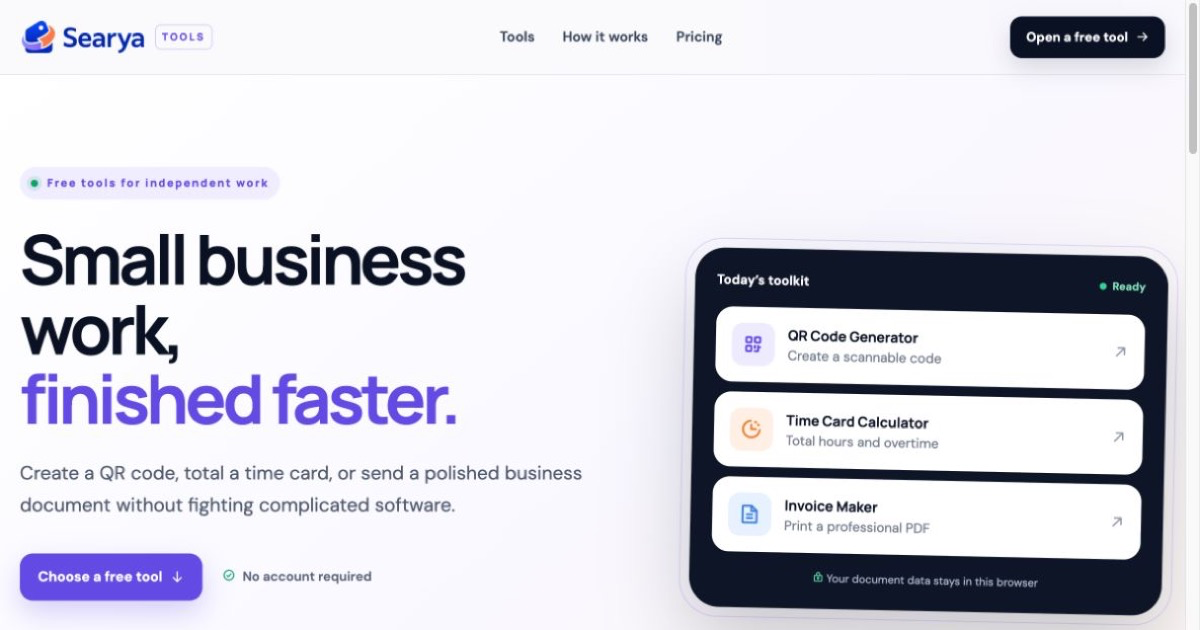
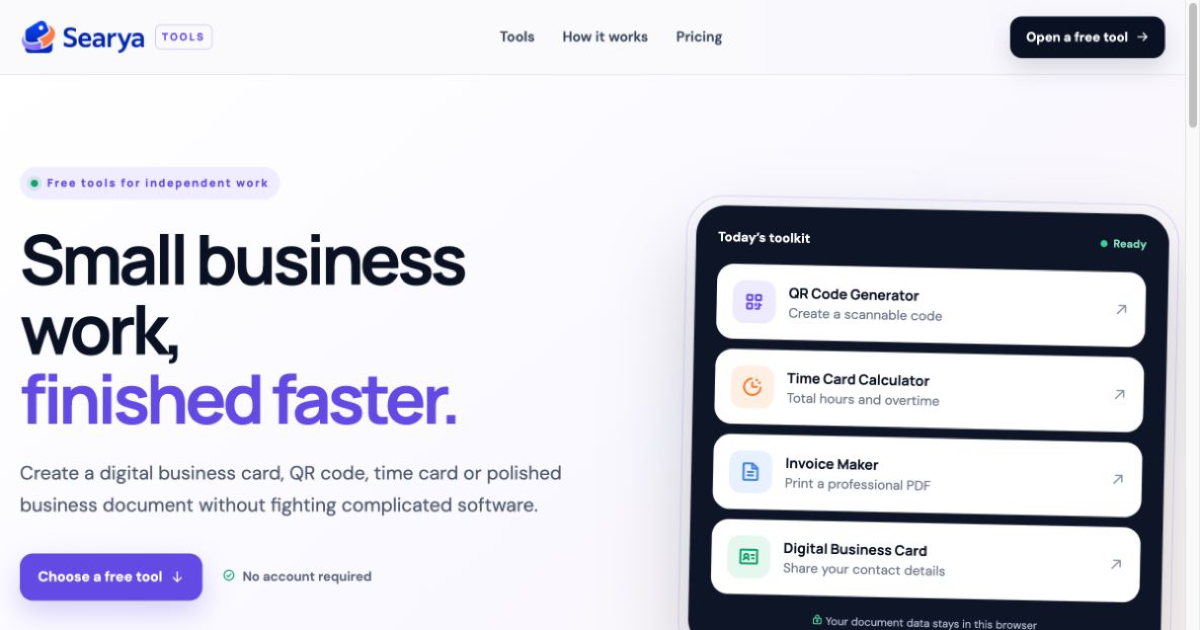
Add digital business card and unified plans

Changed region(s): [[0.555, 0.3016, 0.9867, 1.0], [0.0, 0.7238, 0.4933, 0.8143], [0.9867, 0.181, 1.0, 0.2413]]

diff --git a/src/styles/tools.css b/src/styles/tools.css
@@ -2,4 +2,19 @@
 *{box-sizing:border-box}html{scroll-behavior:smooth}body{margin:0;background:#fbfbfd;color:var(--ink);font-family:"DM Sans",sans-serif;line-height:1.5;overflow-x:hidden}button,input,textarea,select{font:inherit}button,a{touch-action:manipulation}a{color:inherit;text-decoration:none}.shell{width:min(1160px,calc(100% - 40px));margin:0 auto}.page-glow{position:fixed;width:500px;height:500px;border-radius:50%;filter:blur(100px);opacity:.16;pointer-events:none;z-index:-1}.glow-one{background:#a994ff;top:-240px;right:-120px}.glow-two{background:#ffc798;bottom:-320px;left:-220px}.site-header{position:sticky;top:0;z-index:30;background:rgba(251,251,253,.84);border-bottom:1px solid rgba(229,231,235,.8);backdrop-filter:blur(18px)}.header-inner{height:74px;display:flex;align-items:center;justify-content:space-between;gap:28px}.brand{display:flex;align-items:center;gap:9px;font-family:Manrope,sans-serif;font-size:10px;letter-spacing:.2em;font-weight:800}.brand img{width:126px;height:auto;display:block}.brand span{padding:4px 6px;border:1px solid #d8d3f7;color:var(--purple);border-radius:6px}.header-inner nav{display:flex;gap:28px;font-weight:600;font-size:14px;color:#475467}.header-inner nav a:hover{color:var(--purple)}.header-cta{display:flex;align-items:center;gap:8px;background:var(--ink);color:white;padding:11px 16px;border-radius:12px;font-size:13px;font-weight:700;box-shadow:0 10px 24px rgba(23,32,51,.14)}.hero{padding:92px 0 86px;border-bottom:1px solid var(--line);background:linear-gradient(140deg,#fff 0%,#faf9ff 54%,#fff9f5 100%)}.hero-grid{display:grid;grid-template-columns:1.05fr .85fr;align-items:center;gap:88px}.eyebrow,.section-kicker{font-family:Manrope,sans-serif;font-size:11px;font-weight:800;letter-spacing:.15em;color:var(--purple)}.eyebrow{display:inline-flex;align-items:center;gap:9px;padding:8px 11px;background:#f1efff;border-radius:999px}.eyebrow span{width:7px;height:7px;border-radius:50%;background:var(--green);box-shadow:0 0 0 4px rgba(30,170,120,.12)}h1,h2,h3,strong{font-family:Manrope,sans-serif}.hero h1{font-size:clamp(46px,5.7vw,76px);line-height:1.02;letter-spacing:-.055em;margin:24px 0}.hero h1 em{font-style:normal;color:var(--purple)}.hero-copy>p{font-size:19px;line-height:1.7;color:#5e687b;max-width:650px;margin:0}.hero-actions{display:flex;align-items:center;gap:20px;margin-top:32px}.hero-actions>span{font-size:13px;color:#667085;font-weight:600}.hero-actions>span i{color:var(--green);margin-right:4px}.button{appearance:none;border:0;border-radius:13px;padding:13px 18px;display:inline-flex;align-items:center;justify-content:center;gap:8px;font-weight:700;font-size:14px;cursor:pointer;transition:.2s ease}.button:hover{transform:translateY(-1px)}.button.primary{background:var(--purple);color:#fff;box-shadow:0 12px 28px rgba(114,89,232,.25)}.button.primary:hover{background:var(--purple-dark)}.button.dark{background:var(--ink);color:white}.button.secondary{background:white;color:var(--ink);border:1px solid var(--line)}.button.full{width:100%}.trust-row{display:flex;gap:38px;margin-top:46px}.trust-row div{display:flex;flex-direction:column}.trust-row strong{font-size:21px}.trust-row span{font-size:12px;color:#7a8395}.hero-visual{position:relative;background:#1d2537;border-radius:30px;padding:22px;box-shadow:0 34px 80px rgba(23,32,51,.22);transform:rotate(1.2deg)}.hero-visual:before{content:"";position:absolute;inset:-10px;border:1px solid rgba(114,89,232,.2);border-radius:38px;z-index:-1}.visual-top{display:flex;justify-content:space-between;color:#fff;margin-bottom:17px;font-size:13px;font-weight:700}.live-dot{font-size:11px;color:#8ee5c4}.live-dot:before{content:"";display:inline-block;width:7px;height:7px;border-radius:50%;background:#47d69f;margin-right:6px}.mini-tool{background:#fff;border-radius:17px;padding:16px;display:flex;align-items:center;gap:13px;margin-top:10px;transition:.2s}.mini-tool:hover{transform:translateX(4px)}.mini-tool>i:first-child{font-size:22px;width:43px;height:43px;border-radius:12px;display:grid;place-items:center}.mini-tool.purple>i:first-child{background:#f0edff;color:var(--purple)}.mini-tool.orange>i:first-child{background:#fff1e8;color:var(--orange)}.mini-tool.blue>i:first-child{background:#eaf3ff;color:var(--blue)}.mini-tool div{flex:1;display:flex;flex-direction:column}.mini-tool strong{font-size:14px}.mini-tool small{color:#7b8494}.mini-tool>i:last-child{color:#98a1b2}.visual-foot{text-align:center;color:#b7c0d0;font-size:11px;margin-top:17px}.visual-foot i{color:#6ee0b5}.tools-section{padding:100px 0}.section-heading{display:flex;align-items:end;justify-content:space-between;gap:30px;margin-bottom:38px}.section-heading h2{font-size:42px;letter-spacing:-.045em;margin:7px 0 0}.section-heading>p{max-width:380px;color:var(--muted);margin:0}.section-heading.centered{text-align:center;display:block}.section-heading.centered>p{margin:8px auto 0}.tool-cards{display:grid;grid-template-columns:repeat(3,1fr);gap:20px}.tool-card{position:relative;min-height:330px;padding:28px;border:1px solid var(--line);border-radius:var(--radius);background:#fff;display:flex;flex-direction:column;box-shadow:0 10px 30px rgba(23,32,51,.035);transition:.25s}.tool-card:hover{transform:translateY(-7px);border-color:#cfc7fb;box-shadow:var(--shadow)}.tool-card.featured{border-color:#d1c9fb;background:linear-gradient(180deg,#fff,#fbfaff)}.popular-pill{position:absolute;right:20px;top:-11px;background:var(--purple);color:#fff;padding:5px 9px;border-radius:999px;font-size:9px;font-weight:800;letter-spacing:.08em}.tool-icon{width:56px;height:56px;border-radius:16px;display:grid;place-items:center;font-size:27px}.tool-icon.purple{background:#f0edff;color:var(--purple)}.tool-icon.orange{background:#fff0e5;color:var(--orange)}.tool-icon.blue{background:#e9f3ff;color:var(--blue)}.free-pill{position:absolute;right:26px;top:29px;color:var(--green);background:#eaf9f3;border-radius:8px;padding:5px 8px;font-size:9px;font-weight:800}.tool-card h3{font-size:21px;margin:28px 0 9px}.tool-card p{color:var(--muted);margin:0;line-height:1.7}.tool-link{display:flex;align-items:center;gap:8px;margin-top:auto;font-size:13px;font-weight:800;color:var(--purple)}.tool-workspace{padding:52px 0 90px;background:linear-gradient(180deg,#f7f8fb,#fff)}.back-home{display:inline-flex;gap:8px;align-items:center;color:#667085;font-weight:700;font-size:13px;margin-bottom:26px}.workspace{display:none}.workspace.active{display:block}.workspace-heading{display:flex;align-items:center;gap:18px;margin-bottom:28px}.workspace-heading h1{font-size:clamp(31px,4vw,48px);letter-spacing:-.045em;margin:4px 0}.workspace-heading p{color:var(--muted);margin:0}.workspace-grid{display:grid;grid-template-columns:.85fr 1.15fr;gap:22px}.control-card,.result-card{background:#fff;border:1px solid var(--line);border-radius:20px;padding:24px;box-shadow:0 12px 35px rgba(23,32,51,.05)}label{display:flex;flex-direction:column;gap:7px;font-size:12px;color:#475467;font-weight:700;margin-bottom:17px}input,textarea,select{width:100%;border:1px solid #d9dce3;background:#fff;color:var(--ink);border-radius:11px;padding:12px 13px;outline:none;transition:.2s}textarea{resize:vertical}input:focus,textarea:focus,select:focus{border-color:var(--purple);box-shadow:0 0 0 3px rgba(114,89,232,.1)}.field-row{display:grid;grid-template-columns:1fr 1fr;gap:14px}.field-row.three{grid-template-columns:repeat(3,1fr)}input[type=color]{height:47px;padding:5px}.form-note{color:#7a8395;font-size:11px;display:flex;align-items:flex-start;gap:7px;margin:15px 0 0}.form-note i{color:var(--green);font-size:15px}.qr-result{min-height:415px;display:flex;align-items:center;justify-content:center;flex-direction:column;background:linear-gradient(145deg,#fff,#f7f6ff)}#qr-placeholder{text-align:center;color:#929aad}#qr-placeholder i{font-size:96px;color:#d8d5e8}#qr-image{width:min(290px,75%);aspect-ratio:1;border-radius:14px;background:#fff}.result-actions{display:flex;gap:10px;margin-top:20px}.time-layout{display:grid;grid-template-columns:1fr 290px;gap:20px}.table-card{overflow:hidden}.table-scroll{overflow:auto}.time-table{width:100%;border-collapse:collapse;min-width:650px}.time-table th{text-align:left;color:#7a8395;font-size:11px;text-transform:uppercase;letter-spacing:.07em;border-bottom:1px solid var(--line);padding:0 9px 12px}.time-table td{padding:11px 8px;border-bottom:1px solid #eff0f3;font-size:13px}.time-table td:first-child{font-weight:800}.time-table input{padding:9px 10px;min-width:105px}.time-table .day-total{font-weight:800;white-space:nowrap}.text-button{border:0;background:transparent;color:var(--purple);padding:12px 0 0;cursor:pointer;font-weight:800;font-size:12px}.pay-settings h3{margin:0 0 20px}.summary-grid{display:grid;grid-template-columns:repeat(4,1fr);gap:14px;margin-top:20px}.summary-grid>div{border:1px solid var(--line);background:#fff;border-radius:17px;padding:20px;display:flex;flex-direction:column;gap:6px}.summary-grid span{font-size:11px;color:#7a8395;font-weight:700}.summary-grid strong{font-size:22px}.summary-grid .pay-total{background:var(--ink);border-color:var(--ink);color:#fff}.summary-grid .pay-total span{color:#bdc5d3}.workspace-actions{display:flex;gap:10px;margin-top:18px}.document-layout{display:grid;grid-template-columns:1fr 1fr;gap:22px;align-items:start}.document-form{padding-bottom:12px}.line-items{margin:4px 0 18px}.line-head,.line-item{display:grid;grid-template-columns:1fr 65px 100px 32px;gap:8px;align-items:center}.line-head{font-size:10px;text-transform:uppercase;color:#7a8395;font-weight:800;padding-bottom:7px}.line-item{margin-bottom:8px}.line-item input{padding:10px}.remove-line{border:0;background:#fff1f1;color:#d44949;width:30px;height:38px;border-radius:9px;cursor:pointer}.document-preview-wrap{position:sticky;top:96px}.document-preview{background:#fff;border:1px solid var(--line);box-shadow:0 20px 60px rgba(23,32,51,.09);min-height:700px;margin-bottom:14px;padding:48px;color:#222}.doc-head{display:flex;justify-content:space-between;gap:25px;border-bottom:2px solid #20283a;padding-bottom:24px}.doc-head h2{font-size:32px;text-transform:uppercase;letter-spacing:.08em;margin:0}.doc-head p,.doc-parties p,.doc-notes p{margin:4px 0;font-size:12px;color:#596273}.doc-number{text-align:right}.doc-parties{display:grid;grid-template-columns:1fr 1fr;gap:30px;padding:28px 0}.doc-parties strong,.doc-notes strong{font-size:11px;text-transform:uppercase;color:#7a8395;letter-spacing:.08em}.doc-table{width:100%;border-collapse:collapse}.doc-table th{font-size:10px;text-transform:uppercase;text-align:left;background:#f1f2f5;padding:10px}.doc-table td{font-size:12px;padding:12px 10px;border-bottom:1px solid #e8e9ed}.doc-table th:nth-child(n+2),.doc-table td:nth-child(n+2){text-align:right}.doc-totals{width:52%;margin:24px 0 24px auto}.doc-total-row{display:flex;justify-content:space-between;padding:7px 0;font-size:12px}.doc-total-row.grand{font-size:17px;font-weight:800;border-top:2px solid #20283a;margin-top:5px;padding-top:12px}.doc-notes{border-top:1px solid #e7e8ec;padding-top:20px}.how-section{padding:100px 0;background:#f5f5f8}.steps{display:grid;grid-template-columns:repeat(3,1fr);gap:20px;margin-top:42px}.steps>div{position:relative;background:#fff;padding:28px;border-radius:20px;border:1px solid var(--line)}.steps>div>span{position:absolute;right:20px;top:18px;color:#d4d6dc;font-family:Manrope;font-weight:800}.steps i{font-size:25px;color:var(--purple)}.steps h3{margin:19px 0 7px}.steps p{color:var(--muted);font-size:14px;margin:0}.pricing-section{padding:78px 0}.pricing-box{background:linear-gradient(135deg,#5f48d5,#8068f4);border-radius:30px;padding:48px 55px;color:#fff;display:flex;justify-content:space-between;align-items:center;gap:50px;box-shadow:0 30px 70px rgba(95,72,213,.25)}.pricing-box h2{font-size:39px;letter-spacing:-.04em;margin:8px 0}.pricing-box p{color:#e5e0ff;max-width:660px;margin:0}.section-kicker.light{color:#cfc6ff}.price{display:flex;flex-direction:column;align-items:flex-end;min-width:210px}.price strong{font-size:54px;line-height:1}.price span{font-size:12px;color:#dcd5ff;margin-bottom:16px}.light-button{background:#fff;color:#4c38b5}.light-button:hover{background:#f5f2ff}footer{border-top:1px solid var(--line);padding:32px 0;background:#fff}.footer-inner{display:flex;align-items:center;gap:30px}.footer-brand img{width:112px}.footer-inner p{font-size:12px;color:#7a8395;flex:1}.footer-inner>div{display:flex;gap:18px;font-size:12px;font-weight:700;color:#667085}#toast{position:fixed;z-index:100;bottom:22px;left:50%;transform:translate(-50%,120px);background:var(--ink);color:#fff;padding:12px 18px;border-radius:12px;font-size:13px;font-weight:700;box-shadow:0 16px 40px rgba(0,0,0,.2);transition:.25s;opacity:0}#toast.show{transform:translate(-50%,0);opacity:1}
 @media(max-width:900px){.header-inner nav{display:none}.hero{padding:65px 0}.hero-grid{grid-template-columns:1fr;gap:45px}.hero-copy{text-align:center}.hero-copy>p{margin:auto}.hero-actions,.trust-row{justify-content:center}.hero-visual{max-width:540px;margin:auto;width:100%}.tool-cards,.steps{grid-template-columns:1fr}.tool-card{min-height:270px}.workspace-grid,.time-layout,.document-layout{grid-template-columns:1fr}.document-preview-wrap{position:static}.summary-grid{grid-template-columns:1fr 1fr}.pricing-box{flex-direction:column;text-align:center}.price{align-items:center}.section-heading{align-items:start}.section-heading h2{font-size:35px}}
 @media(max-width:620px){.shell{width:min(100% - 26px,1160px)}.header-inner{height:66px}.brand img{width:105px}.header-cta{height:40px;padding:0 12px;font-size:12px}.header-cta span{display:none}.header-cta:before{content:"Tools"}.header-cta i{font-size:13px}.hero{padding:48px 0}.hero h1{font-size:43px}.hero-copy>p{font-size:16px}.hero-actions{flex-direction:column}.trust-row{gap:22px}.hero-visual{padding:16px}.tools-section,.how-section{padding:68px 0}.section-heading{display:block}.section-heading>p{margin-top:10px}.section-heading h2{font-size:32px}.workspace-heading{align-items:flex-start}.workspace-heading .tool-icon{flex:none}.workspace-heading h1{font-size:31px}.control-card,.result-card{padding:17px}.field-row,.field-row.three{grid-template-columns:1fr;gap:0}.summary-grid{grid-template-columns:1fr 1fr}.summary-grid>div{padding:15px}.summary-grid strong{font-size:18px}.result-actions,.workspace-actions{flex-direction:column;width:100%}.result-actions .button,.workspace-actions .button{width:100%}.document-preview{padding:25px 18px;min-height:580px}.doc-head{flex-direction:column}.doc-number{text-align:left}.doc-parties{grid-template-columns:1fr}.doc-totals{width:100%}.line-head,.line-item{grid-template-columns:1fr 54px 78px 30px}.pricing-box{padding:36px 24px}.pricing-box h2{font-size:30px}.footer-inner{flex-wrap:wrap}.footer-inner p{order:3;flex-basis:100%;margin:0}.footer-inner>div{margin-left:auto}}
+
+.mini-tool.green>i:first-child,.tool-icon.green{background:#e9f8f2;color:var(--green)}
+.tool-cards{grid-template-columns:repeat(4,1fr)}
+.card-builder-layout{display:grid;grid-template-columns:.95fr 1.05fr;gap:24px;align-items:start}
+.card-preview-column{display:flex;flex-direction:column;gap:16px}
+.business-card-preview{position:relative;overflow:hidden;min-height:350px;border-radius:27px;padding:38px;color:#fff;background:linear-gradient(145deg,#172033,#252f47);box-shadow:0 28px 65px rgba(23,32,51,.2)}
+.business-card-preview:before{content:"";position:absolute;width:240px;height:240px;border-radius:50%;right:-85px;top:-90px;background:var(--card-accent,#7259e8);opacity:.75;filter:blur(3px)}
+.business-card-preview:after{content:"";position:absolute;width:160px;height:160px;border:1px solid rgba(255,255,255,.15);border-radius:50%;right:10px;top:-30px}
+.card-monogram{position:relative;z-index:1;width:72px;height:72px;border-radius:21px;display:grid;place-items:center;background:rgba(255,255,255,.13);border:1px solid rgba(255,255,255,.18);font:800 24px Manrope,sans-serif;margin-bottom:42px}
+.card-main{position:relative;z-index:1}.card-main h2{font-size:34px;letter-spacing:-.04em;margin:0}.card-main>span{display:block;color:#d9deea;margin:4px 0 15px}.card-main p{max-width:480px;color:#bcc5d6;font-size:13px;margin:0 0 22px}.card-contact-list{position:relative;z-index:1;display:flex;flex-wrap:wrap;gap:9px}.card-contact-list a,.card-contact-list span{display:inline-flex;align-items:center;gap:6px;padding:8px 10px;border-radius:9px;background:rgba(255,255,255,.09);font-size:11px;color:#fff}
+.card-qr-box{display:flex;align-items:center;justify-content:space-between;gap:20px;border:1px solid var(--line);background:#fff;border-radius:18px;padding:18px 20px}.card-qr-box>div{display:flex;flex-direction:column}.card-qr-box span{color:var(--muted);font-size:12px}.card-qr-box img{width:92px;height:92px;border-radius:8px;background:#fff}.card-preview-column .workspace-actions{margin-top:0}.card-preview-column .workspace-actions .button{flex:1}
+.pricing-section{background:#f7f8fb;padding:96px 0}.pricing-grid{display:grid;grid-template-columns:repeat(3,1fr);gap:20px;align-items:stretch}.plan-card{position:relative;background:#fff;border:1px solid var(--line);border-radius:24px;padding:30px;display:flex;flex-direction:column;box-shadow:0 12px 35px rgba(23,32,51,.04)}.plan-card.plan-featured{border:2px solid var(--purple);box-shadow:0 22px 55px rgba(114,89,232,.14);transform:translateY(-8px)}.plan-name{font:800 11px Manrope,sans-serif;letter-spacing:.13em;color:var(--purple)}.plan-card h3{font-size:36px;margin:14px 0 5px}.plan-card h3 small{font:600 13px "DM Sans",sans-serif;color:var(--muted)}.plan-card>p{color:var(--muted);min-height:48px}.plan-card ul{list-style:none;padding:0;margin:17px 0 26px;display:flex;flex-direction:column;gap:12px;flex:1}.plan-card li{position:relative;padding-left:24px;font-size:13px;color:#475467}.plan-card li:before{content:"✓";position:absolute;left:0;color:var(--green);font-weight:900}.plan-card button:disabled{opacity:.72;cursor:not-allowed;transform:none}.plan-badge{position:absolute;top:-13px;right:22px;background:var(--purple);color:#fff;border-radius:999px;padding:6px 10px;font-size:9px;font-weight:800;letter-spacing:.06em}.annual-note{text-align:center;color:#7a8395;margin-top:10px}
+@media(max-width:1050px){.tool-cards{grid-template-columns:repeat(2,1fr)}}
+@media(max-width:900px){.card-builder-layout,.pricing-grid{grid-template-columns:1fr}.plan-card.plan-featured{transform:none}}
+@media(max-width:620px){.tool-cards{grid-template-columns:1fr}.business-card-preview{padding:27px 22px;min-height:330px}.card-main h2{font-size:28px}.card-qr-box{align-items:flex-start}.pricing-section{padding:68px 0}}
 @media print{body *{visibility:hidden!important}.document-preview-wrap,.document-preview-wrap *{visibility:visible!important}.document-preview-wrap{position:absolute!important;inset:0!important}.document-preview{border:0!important;box-shadow:none!important;margin:0!important;min-height:0!important}.document-preview-wrap>.button{display:none!important}}

diff --git a/index.html b/index.html
@@ -3,26 +3,26 @@
 <head>
   <meta charset="utf-8">
   <meta name="viewport" content="width=device-width,initial-scale=1">
-  <title>Searya Tools — Free QR, Time Card & Invoice Tools</title>
-  <meta name="description" content="Create QR codes, calculate work hours, and make professional invoices, quotes and receipts. Fast, private and free to use.">
+  <title>Searya Tools — Digital Business Cards, QR & Invoice Tools</title>
+  <meta name="description" content="Create a digital business card, QR code, time card, invoice, quote or receipt. Upgrade once to unlock the complete Searya workspace.">
   <meta name="robots" content="index, follow, max-image-preview:large">
   <link rel="canonical" href="https://searya.com/">
   <meta property="og:type" content="website">
   <meta property="og:site_name" content="Searya Tools">
   <meta property="og:locale" content="en_US">
   <meta property="og:url" content="https://searya.com/">
-  <meta property="og:title" content="Searya Tools — Free QR, Time Card & Invoice Tools">
-  <meta property="og:description" content="Practical business tools that work instantly. No complicated setup.">
-  <meta property="og:image" content="https://searya.com/public/searya-tools-preview.png?v=20260816-1">
-  <meta property="og:image:secure_url" content="https://searya.com/public/searya-tools-preview.png?v=20260816-1">
+  <meta property="og:title" content="Searya Tools — One Workspace for Small Business">
+  <meta property="og:description" content="Create digital business cards, QR codes, time cards, invoices and more with one Searya membership.">
+  <meta property="og:image" content="https://searya.com/public/searya-tools-preview.png?v=20260816-2">
+  <meta property="og:image:secure_url" content="https://searya.com/public/searya-tools-preview.png?v=20260816-2">
   <meta property="og:image:type" content="image/png">
   <meta property="og:image:width" content="1200">
   <meta property="og:image:height" content="630">
   <meta property="og:image:alt" content="Searya free business tools">
   <meta name="twitter:card" content="summary_large_image">
-  <meta name="twitter:title" content="Searya Tools — Free QR, Time Card & Invoice Tools">
-  <meta name="twitter:description" content="Practical business tools that work instantly. No complicated setup.">
-  <meta name="twitter:image" content="https://searya.com/public/searya-tools-preview.png?v=20260816-1">
+  <meta name="twitter:title" content="Searya Tools — One Workspace for Small Business">
+  <meta name="twitter:description" content="Create digital business cards, QR codes, time cards, invoices and more with one Searya membership.">
+  <meta name="twitter:image" content="https://searya.com/public/searya-tools-preview.png?v=20260816-2">
   <link rel="icon" href="/favicon.ico?v=20260816-1" sizes="any">
   <link rel="icon" type="image/png" sizes="32x32" href="/public/favicon-32.png?v=20260816-1">
   <link rel="apple-touch-icon" href="/public/apple-touch-icon.png?v=20260816-1">
@@ -31,7 +31,7 @@
   <link href="https://fonts.googleapis.com/css2?family=DM+Sans:wght@400;500;600;700&family=Manrope:wght@600;700;800&display=swap" rel="stylesheet">
   <link rel="stylesheet" href="/public/vendor/phosphor/regular/style.css?v=2.1.2">
   <link rel="stylesheet" href="/public/vendor/phosphor/bold/style.css?v=2.1.2">
-  <link rel="stylesheet" href="/src/styles/tools.css?v=20260816-1">
+  <link rel="stylesheet" href="/src/styles/tools.css?v=20260816-2">
   <script id="searya-structured-data" type="application/ld+json">{"@context":"https://schema.org","@graph":[{"@type":"Organization","name":"Searya","url":"https://searya.com/","logo":"https://searya.com/public/searya-logo.png"},{"@type":"WebSite","name":"Searya Tools","url":"https://searya.com/"},{"@type":"SoftwareApplication","name":"Searya Business Tools","applicationCategory":"BusinessApplication","operatingSystem":"Web","offers":{"@type":"Offer","price":"0","priceCurrency":"USD"}}]}</script>
 </head>
 <body>
@@ -50,15 +50,16 @@
         <div class="hero-copy">
           <div class="eyebrow"><span></span> Free tools for independent work</div>
           <h1>Small business work,<br><em>finished faster.</em></h1>
-          <p>Create a QR code, total a time card, or send a polished business document without fighting complicated software.</p>
+          <p>Create a digital business card, QR code, time card or polished business document without fighting complicated software.</p>
           <div class="hero-actions"><a class="button primary" href="/#tools">Choose a free tool <i class="ph-bold ph-arrow-down"></i></a><span><i class="ph-bold ph-check-circle"></i> No account required</span></div>
-          <div class="trust-row"><div><strong>3</strong><span>working tools</span></div><div><strong>0</strong><span>setup steps</span></div><div><strong>Free</strong><span>during launch</span></div></div>
+          <div class="trust-row"><div><strong>4</strong><span>working tools</span></div><div><strong>1 account</strong><span>for every tool</span></div><div><strong>Free</strong><span>starter access</span></div></div>
         </div>
         <div class="hero-visual" aria-label="Searya tool previews">
           <div class="visual-top"><span>Today’s toolkit</span><span class="live-dot">Ready</span></div>
           <a href="/qr-code-generator" class="mini-tool purple"><i class="ph-bold ph-qr-code"></i><div><strong>QR Code Generator</strong><small>Create a scannable code</small></div><i class="ph-bold ph-arrow-up-right"></i></a>
           <a href="/time-card-calculator" class="mini-tool orange"><i class="ph-bold ph-clock-countdown"></i><div><strong>Time Card Calculator</strong><small>Total hours and overtime</small></div><i class="ph-bold ph-arrow-up-right"></i></a>
           <a href="/invoice-generator" class="mini-tool blue"><i class="ph-bold ph-file-text"></i><div><strong>Invoice Maker</strong><small>Print a professional PDF</small></div><i class="ph-bold ph-arrow-up-right"></i></a>
+          <a href="/digital-business-card" class="mini-tool green"><i class="ph-bold ph-identification-card"></i><div><strong>Digital Business Card</strong><small>Share your contact details</small></div><i class="ph-bold ph-arrow-up-right"></i></a>
           <div class="visual-foot"><i class="ph-bold ph-lock-key"></i> Your document data stays in this browser</div>
         </div>
       </div>
@@ -71,6 +72,7 @@
           <a class="tool-card" href="/qr-code-generator"><span class="tool-icon purple"><i class="ph-bold ph-qr-code"></i></span><span class="free-pill">FREE</span><h3>QR Code Generator</h3><p>Turn a URL, message, email or phone number into a downloadable QR code.</p><span class="tool-link">Create a QR code <i class="ph-bold ph-arrow-right"></i></span></a>
           <a class="tool-card featured" href="/time-card-calculator"><span class="popular-pill">MOST USEFUL</span><span class="tool-icon orange"><i class="ph-bold ph-clock-countdown"></i></span><span class="free-pill">FREE</span><h3>Time Card Calculator</h3><p>Calculate daily hours, breaks, weekly pay and overtime without a spreadsheet.</p><span class="tool-link">Calculate work hours <i class="ph-bold ph-arrow-right"></i></span></a>
           <a class="tool-card" href="/invoice-generator"><span class="tool-icon blue"><i class="ph-bold ph-file-text"></i></span><span class="free-pill">FREE</span><h3>Business Document Maker</h3><p>Create invoices, quotes and receipts with live totals and a printable layout.</p><span class="tool-link">Create a document <i class="ph-bold ph-arrow-right"></i></span></a>
+          <a class="tool-card featured" href="/digital-business-card"><span class="popular-pill">NEW</span><span class="tool-icon green"><i class="ph-bold ph-identification-card"></i></span><span class="free-pill">FREE</span><h3>Digital Business Card</h3><p>Create a polished contact card, downloadable vCard and scannable contact QR code.</p><span class="tool-link">Create your card <i class="ph-bold ph-arrow-right"></i></span></a>
         </div>
       </div>
     </section>
@@ -117,16 +119,36 @@
             <div class="document-preview-wrap"><div id="document-preview" class="document-preview"></div><button class="button primary full" id="print-document" type="button"><i class="ph-bold ph-printer"></i> Print or save as PDF</button></div>
           </div>
         </article>
+
+        <article class="workspace" data-tool-panel="card">
+          <header class="workspace-heading"><span class="tool-icon green"><i class="ph-bold ph-identification-card"></i></span><div><span class="section-kicker">FREE ONLINE TOOL</span><h1>Digital Business Card Maker</h1><p>Create a professional contact card, vCard file and QR code in one place.</p></div></header>
+          <div class="card-builder-layout">
+            <form id="business-card-form" class="control-card card-form">
+              <div class="field-row"><label>Full name<input id="card-name" maxlength="70" placeholder="Alex Rivera" value="Alex Rivera"></label><label>Job title<input id="card-role" maxlength="70" placeholder="Independent Consultant" value="Independent Consultant"></label></div>
+              <div class="field-row"><label>Company<input id="card-company" maxlength="80" placeholder="Rivera Studio" value="Rivera Studio"></label><label>Accent color<input id="card-color" type="color" value="#7259e8"></label></div>
+              <div class="field-row"><label>Email<input id="card-email" type="email" maxlength="100" placeholder="alex@example.com"></label><label>Phone<input id="card-phone" type="tel" maxlength="30" placeholder="+1 555 123 4567"></label></div>
+              <label>Website<input id="card-website" type="url" maxlength="180" placeholder="https://yourwebsite.com"></label>
+              <label>LinkedIn or social link<input id="card-social" type="url" maxlength="180" placeholder="https://linkedin.com/in/yourname"></label>
+              <label>Short introduction<textarea id="card-bio" maxlength="220" rows="3" placeholder="Tell people what you do and how you help.">Helping small businesses turn ideas into clear, practical digital experiences.</textarea></label>
+              <p class="form-note"><i class="ph-bold ph-shield-check"></i> Your contact details stay in this browser. The QR code stores the contact directly.</p>
+            </form>
+            <div class="card-preview-column">
+              <div id="business-card-preview" class="business-card-preview"></div>
+              <div class="card-qr-box"><div><strong>Contact QR code</strong><span>Scanning adds your details to a phone.</span></div><img id="card-qr-image" alt="Digital business card QR code"></div>
+              <div class="workspace-actions"><button class="button primary" id="download-vcard" type="button"><i class="ph-bold ph-download-simple"></i> Download vCard</button><button class="button secondary" id="download-card-qr" type="button"><i class="ph-bold ph-qr-code"></i> Download QR</button></div>
+            </div>
+          </div>
+        </article>
       </div>
     </section>
 
     <section class="how-section" id="how-it-works"><div class="shell"><div class="section-heading centered"><div><span class="section-kicker">BUILT FOR SPEED</span><h2>Useful before you sign up.</h2></div><p>We believe a business tool should prove its value first.</p></div><div class="steps"><div><span>01</span><i class="ph-bold ph-cursor-click"></i><h3>Open a tool</h3><p>Choose the job you need to finish. No onboarding maze.</p></div><div><span>02</span><i class="ph-bold ph-sliders-horizontal"></i><h3>Add your details</h3><p>Your inputs stay in the browser unless the tool must generate a file.</p></div><div><span>03</span><i class="ph-bold ph-download-simple"></i><h3>Use the result</h3><p>Download, print or share the finished output immediately.</p></div></div></div></section>
 
-    <section class="pricing-section" id="pricing"><div class="shell"><div class="pricing-box"><div><span class="section-kicker light">LAUNCH ACCESS</span><h2>All core tools are free today.</h2><p>Use the generators without an account. Pro will add saved clients, branded templates, document history and team features later.</p></div><div class="price"><strong>$0</strong><span>during launch</span><a class="button light-button" href="/#tools">Start using the tools</a></div></div></div></section>
+    <section class="pricing-section" id="pricing"><div class="shell"><div class="section-heading centered"><div><span class="section-kicker">ONE SEARYA MEMBERSHIP</span><h2>One plan unlocks every tool.</h2></div><p>No separate QR, invoice or digital-card payments. Upgrade once and use the complete Searya workspace.</p></div><div class="pricing-grid"><article class="plan-card"><span class="plan-name">FREE</span><h3>$0</h3><p>Try the core tools before creating an account.</p><ul><li>All calculators and generators</li><li>One local digital business card</li><li>Searya-branded exports</li><li>No cloud history</li></ul><a class="button secondary full" href="/#tools">Use free tools</a></article><article class="plan-card plan-featured"><span class="plan-badge">BEST FOR FREELANCERS</span><span class="plan-name">PRO</span><h3>$7.99 <small>/ month</small></h3><p>Everything an independent professional needs.</p><ul><li>Every Searya tool included</li><li>Unlimited clients and documents</li><li>Custom branding and templates</li><li>Saved history and payment tracking</li><li>Digital-card and QR analytics</li></ul><button class="button primary full" type="button" disabled>Coming soon</button><small class="annual-note">or $69 billed yearly</small></article><article class="plan-card"><span class="plan-name">BUSINESS</span><h3>$14.99 <small>/ month</small></h3><p>Shared tools and branding for a small team.</p><ul><li>Everything in Pro</li><li>Up to 5 team members</li><li>50 digital business cards</li><li>Shared brand controls</li><li>Custom domain and exports</li></ul><button class="button dark full" type="button" disabled>Coming soon</button><small class="annual-note">or $129 billed yearly</small></article></div></div></section>
   </main>
 
   <footer><div class="shell footer-inner"><a class="brand footer-brand" href="/"><img src="/src/assets/searya-logo.png" alt="Searya" width="1250" height="359"><span>TOOLS</span></a><p>Fast, practical business tools for independent work.</p><div><a href="/legal/privacy.html">Privacy</a><a href="/legal/terms.html">Terms</a><a href="mailto:basakatali71@gmail.com">Feedback</a></div></div></footer>
   <div id="toast" role="status" aria-live="polite"></div>
-  <script type="module" src="/src/tools.js?v=20260816-1"></script>
+  <script type="module" src="/src/tools.js?v=20260816-2"></script>
 </body>
 </html>

diff --git a/src/tools.js b/src/tools.js
@@ -6,10 +6,16 @@ const TOOL_PATHS = {
   '/work-hours-calculator': 'time',
   '/invoice-generator': 'document',
   '/quote-generator': 'document',
-  '/receipt-maker': 'document'
+  '/receipt-maker': 'document',
+  '/digital-business-card': 'card',
+  '/digital-business-card-maker': 'card',
+  '/qr-business-card': 'card',
+  '/virtual-business-card': 'card'
 };
 const DAYS = ['Monday','Tuesday','Wednesday','Thursday','Friday','Saturday','Sunday'];
 let qrObjectUrl = '';
+let cardQrObjectUrl = '';
+let cardQrTimer = null;
 let lastTimeResult = null;
 let toastTimer = null;
 
@@ -199,6 +205,86 @@ function initializeDocument() {
   updateDocumentPreview();
 }
 
+function businessCardValues() {
+  return {
+    name: $('#card-name').value.trim(), role: $('#card-role').value.trim(), company: $('#card-company').value.trim(),
+    email: $('#card-email').value.trim(), phone: $('#card-phone').value.trim(), website: $('#card-website').value.trim(),
+    social: $('#card-social').value.trim(), bio: $('#card-bio').value.trim(), color: $('#card-color').value
+  };
+}
+
+function vcardEscape(value='') {
+  return String(value).replaceAll('\\','\\\\').replaceAll('\n','\\n').replaceAll(';','\\;').replaceAll(',','\\,');
+}
+
+function makeVcard(card=businessCardValues()) {
+  const lines=['BEGIN:VCARD','VERSION:3.0',`FN:${vcardEscape(card.name||'My business card')}`];
+  if (card.role || card.company) lines.push(`TITLE:${vcardEscape(card.role)}`,`ORG:${vcardEscape(card.company)}`);
+  if (card.email) lines.push(`EMAIL;TYPE=INTERNET:${vcardEscape(card.email)}`);
+  if (card.phone) lines.push(`TEL;TYPE=CELL:${vcardEscape(card.phone)}`);
+  if (card.website) lines.push(`URL:${vcardEscape(card.website)}`);
+  if (card.social) lines.push(`X-SOCIALPROFILE:${vcardEscape(card.social)}`);
+  if (card.bio) lines.push(`NOTE:${vcardEscape(card.bio)}`);
+  lines.push('END:VCARD');
+  return lines.filter(line => !line.endsWith(':')).join('\r\n');
+}
+
+async function refreshCardQr() {
+  const image=$('#card-qr-image');
+  if (!image) return;
+  try {
+    const response=await fetch(`/api/tools/qr?text=${encodeURIComponent(makeVcard())}&dark=%23172033&light=%23ffffff`);
+    if (!response.ok) throw new Error('QR code could not be generated.');
+    const blob=await response.blob();
+    if (cardQrObjectUrl) URL.revokeObjectURL(cardQrObjectUrl);
+    cardQrObjectUrl=URL.createObjectURL(blob); image.src=cardQrObjectUrl;
+  } catch { image.removeAttribute('src'); }
+}
+
+function updateBusinessCard() {
+  const card=businessCardValues();
+  const initials=(card.name||'My Card').split(/\s+/).slice(0,2).map(word=>word[0]?.toUpperCase()||'').join('');
+  const roleLine=[card.role,card.company].filter(Boolean).join(' · ') || 'Your professional headline';
+  const contactItems=[
+    card.email && `<span><i class="ph-bold ph-envelope-simple"></i>${escapeHtml(card.email)}</span>`,
+    card.phone && `<span><i class="ph-bold ph-phone"></i>${escapeHtml(card.phone)}</span>`,
+    card.website && `<span><i class="ph-bold ph-globe"></i>${escapeHtml(card.website.replace(/^https?:\/\//,''))}</span>`,
+    card.social && `<span><i class="ph-bold ph-link"></i>Social profile</span>`
+  ].filter(Boolean).join('');
+  const preview=$('#business-card-preview');
+  preview.style.setProperty('--card-accent',card.color);
+  preview.innerHTML=`<div class="card-monogram">${escapeHtml(initials)}</div><div class="card-main"><h2>${escapeHtml(card.name||'Your name')}</h2><span>${escapeHtml(roleLine)}</span><p>${escapeHtml(card.bio||'Add a short introduction so people know how you can help.')}</p><div class="card-contact-list">${contactItems||'<span><i class="ph-bold ph-plus"></i>Add your contact details</span>'}</div></div>`;
+  try { localStorage.setItem('searya_business_card',JSON.stringify(card)); } catch {}
+  clearTimeout(cardQrTimer); cardQrTimer=setTimeout(refreshCardQr,500);
+}
+
+function downloadVcard() {
+  const card=businessCardValues();
+  const anchor=document.createElement('a');
+  anchor.href=URL.createObjectURL(new Blob([makeVcard(card)],{type:'text/vcard;charset=utf-8'}));
+  anchor.download=`${(card.name||'searya-contact').toLowerCase().replace(/[^a-z0-9]+/g,'-').replace(/^-|-$/g,'')||'searya-contact'}.vcf`;
+  anchor.click(); URL.revokeObjectURL(anchor.href); track('tool_exported',{tool:'digital_business_card',format:'vcard'});
+}
+
+function downloadCardQr() {
+  if (!cardQrObjectUrl) return showToast('Your contact QR code is still being prepared.');
+  const anchor=document.createElement('a'); anchor.href=cardQrObjectUrl; anchor.download='searya-business-card-qr.svg'; anchor.click();
+  track('tool_exported',{tool:'digital_business_card',format:'qr_svg'});
+}
+
+function initializeBusinessCard() {
+  const form=$('#business-card-form'); if (!form) return;
+  try {
+    const saved=JSON.parse(localStorage.getItem('searya_business_card')||'null');
+    const fields={name:'card-name',role:'card-role',company:'card-company',email:'card-email',phone:'card-phone',website:'card-website',social:'card-social',bio:'card-bio',color:'card-color'};
+    if (saved) Object.entries(fields).forEach(([key,id])=>{ if (typeof saved[key]==='string') $(`#${id}`).value=saved[key]; });
+  } catch {}
+  form.addEventListener('input',updateBusinessCard);
+  $('#download-vcard').addEventListener('click',downloadVcard);
+  $('#download-card-qr').addEventListener('click',downloadCardQr);
+  updateBusinessCard();
+}
+
 function initialize() {
   routeTool();
   $('#qr-form')?.addEventListener('submit',generateQr);
@@ -210,6 +296,7 @@ function initialize() {
   $('#reset-time')?.addEventListener('click',resetTime);
   $('#download-timesheet')?.addEventListener('click',downloadTimesheet);
   initializeDocument();
+  initializeBusinessCard();
   $$('a[href^="/"]').forEach(link=>link.addEventListener('click',()=>track('navigation_clicked',{href:link.getAttribute('href')})));
 }
 
